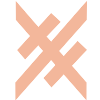
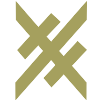
updated to new background colour

diff --git a/404.html b/404.html
@@ -1,0 +1,66 @@
+<!DOCTYPE html>
+<html>
+<head>
+    <title>Widma - 404 Not Found</title>
+    <meta http-equiv="Content-Type" content="text/html; charset=UTF-8">
+    <meta name="HandheldFriendly" content="True">
+    <meta name="description" content="404 Error page">
+    <meta name="author" content="Widma">
+    
+<!--robots tag -->
+    <META NAME="ROBOTS" CONTENT="INDEX, FOLLOW">
+        
+<!--essential to show fonts correctly on iOS -->
+    <meta name="viewport" content="width=device-width, initial-scale=1">
+
+<!-- stylesheets -->
+    <link rel="stylesheet" type="text/css" href="css/skeleton.css">
+    <link rel="stylesheet" type="text/css" href="css/style.css">
+
+<!--IE8 and lower only -->
+    <!--[if lt IE 9]>
+    	<link rel="stylesheet" type="text/css" href="css/iestyle.css" />
+    <![endif]-->
+
+</head>
+
+<body>
+
+    <a href="index.html">
+        <div id="splash" class="bg-white">
+            <div id="splashtitle">
+                <h1>Widma</h1>
+            <span class="slogan">[A Journal of American and Polish Verse]</span>
+            </div>
+        </div>
+    </a>
+
+    <div class="navbar">
+        <nav class="navbar">
+            <ul>
+                <li><a href="staff.html">Staff</a></li>
+                <li><a href="current_issue.html">Current Issue</a></li>
+                <li><a href="archive.html">Archive</a></li>
+                <li><a href="contact.html">Contact</a></li>
+            </ul>
+        </nav>
+    </div>
+            
+    <div id="contact" class="container">
+        <h2>404</h2>
+    </div>
+    <div class="container">
+        The page you are looking for doesn't exist. If you think it should, please us at <a class="orange-link" href="mailto:info@widma.pl"> info@widma.pl</a>.
+    </div>
+
+    <div id="footer" class="container">
+        <a href="http://facebook.com/widmajournal"><img id="fb_icon" src="imgs/facebook.png" alt="facebook icon"></a>
+        <p>&copy; 2015 by Widma</p>
+    </div>
+    
+    <script src="//static.getclicky.com/js" type="text/javascript"></script>
+    <script type="text/javascript">try{ clicky.init(100901155); }catch(e){}</script>
+    <noscript><p><img alt="Clicky" width="1" height="1" src="//in.getclicky.com/100901155ns.gif" /></p></noscript>
+
+</body>    
+</html>

diff --git a/css/style.css b/css/style.css
@@ -45,7 +45,7 @@ html, body {
 
 /*IMAGES*/
 img.border {
-    border: 1px solid #F3B79B;
+    border: 1px solid #A5A05E;
 }
 
 /*HEADERS*/
@@ -84,13 +84,13 @@ a {
     text-decoration: none;
 }
 .orange-link {
-    color: #F3B79B;
+    color: #A5A05E;
 }
 a:hover {
-    color: #F3B79B;
+    color: #A5A05E;
 }
 a.current {
-    color: #F3B79B;
+    color: #A5A05E;
 }
 /*END LINK STYLING*/
 
@@ -187,7 +187,7 @@ p {
     margin-bottom: 0;
 }
 .navbar.decked {
-    border-top: 1px solid #F3B79B;
+    border-top: 1px solid #A5A05E;
 }
 .navbar ul {
     display: block;
@@ -215,7 +215,7 @@ p {
 
 /*CURRENT ISSUE PAGE*/
 .underline {
-    border-bottom: 1px solid #F3B79B;
+    border-bottom: 1px solid #A5A05E;
 }
 .addspace {
     margin-bottom: 1em;
